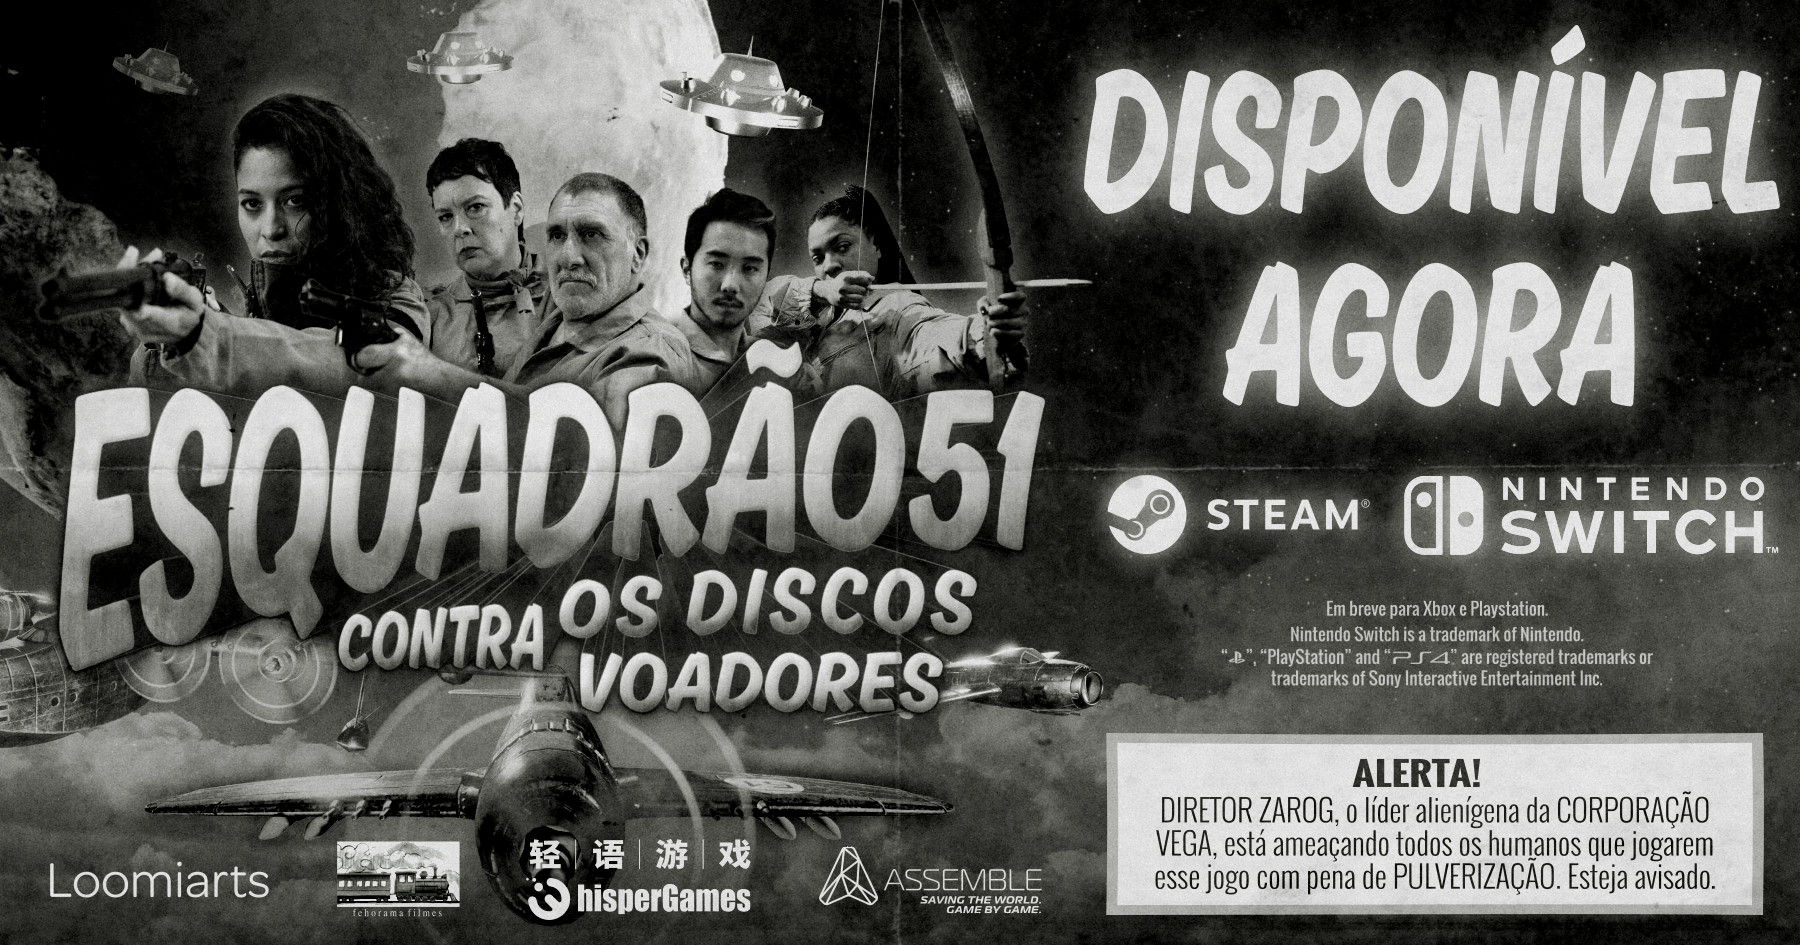
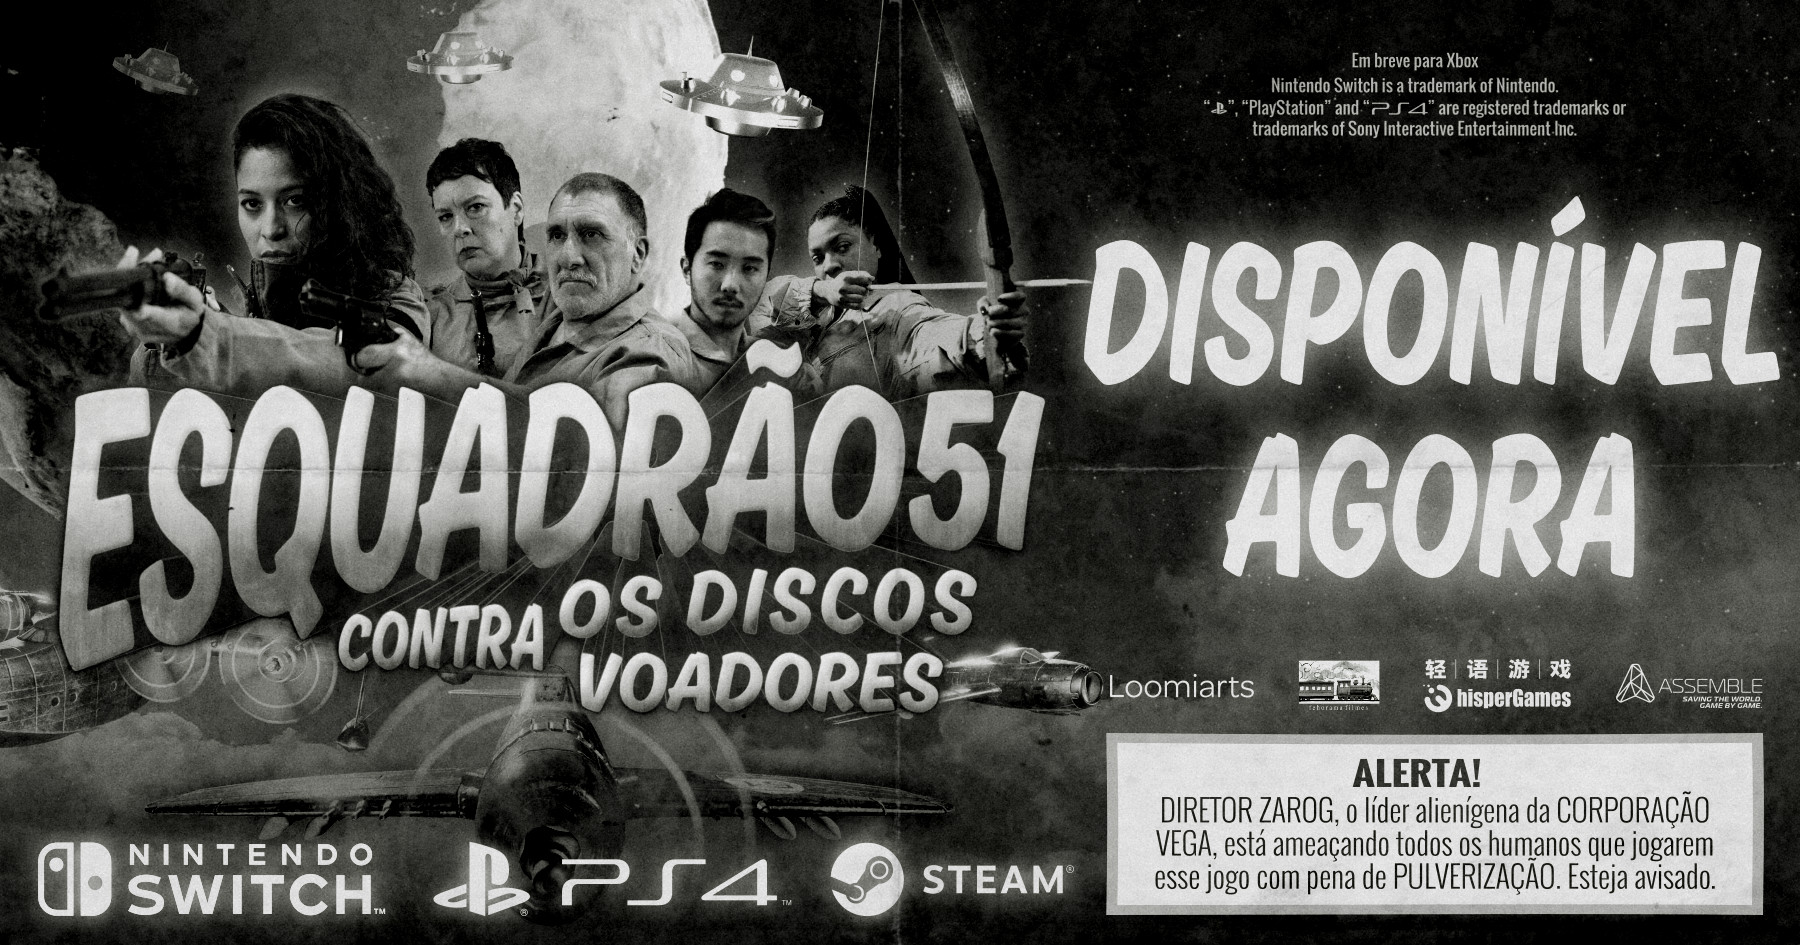
Add Playstation as an available platform

Changed region(s): [[0.0, 0.0, 0.9956, 1.0], [0.9644, 0.7672, 1.0, 0.982], [0.6533, 0.9513, 0.84, 1.0]]

diff --git a/index.html b/index.html
@@ -30,6 +30,7 @@
                 <div class="game-menu-item game-menu-item-info"><p>Info</p></div>
                 <div class="game-menu-item"><a href="https://store.steampowered.com/app/1378800/Esquadro_51/">Steam</a></div>
                 <div class="game-menu-item"><a href="https://www.nintendo.com/en-us/store/products/squad-51-vs-the-flying-saucers-switch/">Nintendo eShop</a></div>
+                <div class="game-menu-item"><a href="https://store.playstation.com/pt-br/product/UP5997-CUSA31360_00-0502192421273084">PlayStation Store</a></div>
                 <div class="game-menu-item"><a href="https://www.youtube.com/watch?v=sK1WevYwhpI">Trailer</a></div>
                 <div class="game-menu-item"><a href="https://drive.google.com/drive/folders/1anMe8qc5ht1gljL7FQfc5T7QZl36vWcy?usp=sharing">Presskit</a></div>
                 <div class="game-menu-item"><a href="https://discord.gg/Zw4rbUT">Discord</a></div>

diff --git a/index-style.css b/index-style.css
@@ -32,7 +32,7 @@ h1 {
   bottom: 0px;
   width: 100%;
   height: 100%;
-  opacity: 85%;
+  opacity: 90%;
 }
 .game-menu-content {
   position:relative;
